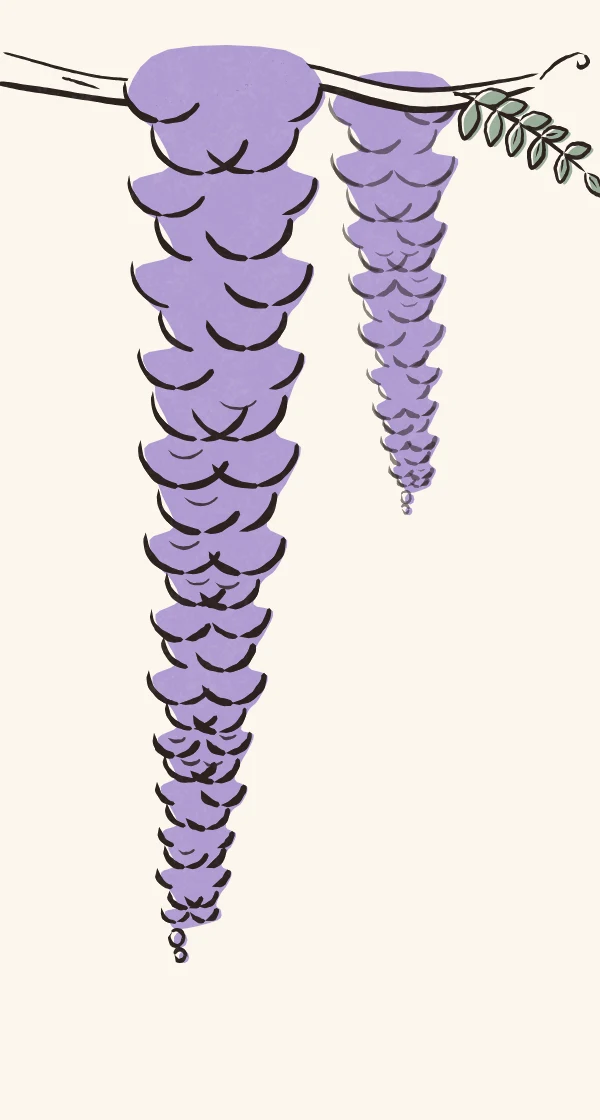
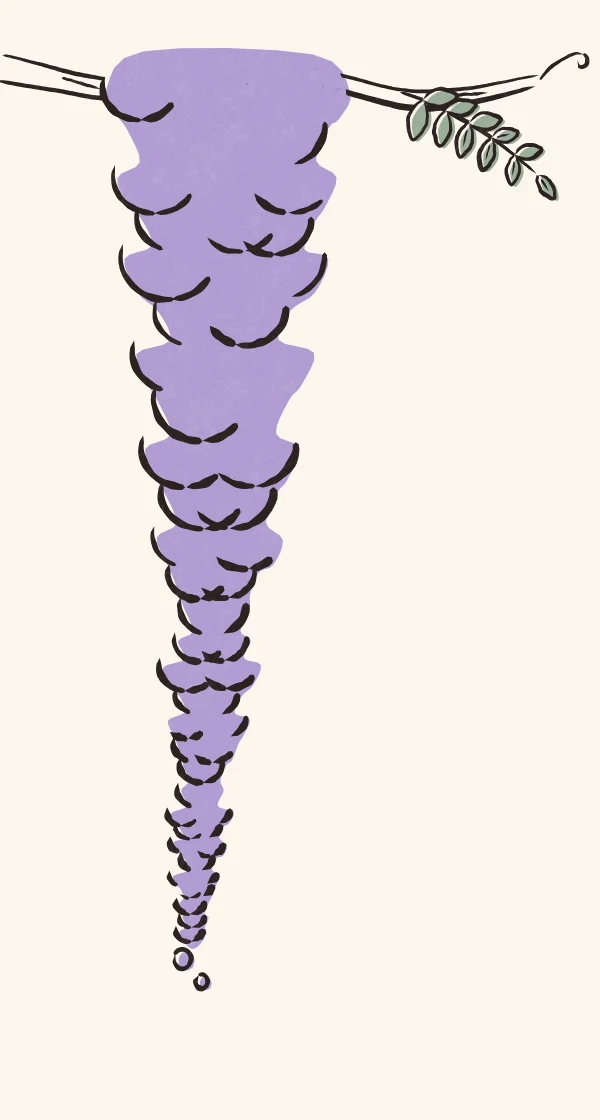
Lighten the wisteria and give the hero main's glow and fade

Changed region(s): [[0.0, 0.0312, 1.0, 0.9062], [0.39, 0.0312, 0.42, 0.0625]]

diff --git a/docs/design/illustrations/round7-build.py b/docs/design/illustrations/round7-build.py
@@ -48,6 +48,14 @@ def art(key, x, y, w, plates=None, ink=INK, op=1, flip=False, rot=0, extra='', r
   inner = ''.join(f'<i class="m-{key}-{l}" style="background:{dflt(l) if isinstance(pl, list) else pl[l]};transform:translate({reg}px,{reg * .6}px)"></i>' for l in (pl if isinstance(pl, list) else pl.keys()))
   inner += f'<i class="m-{key}-ink" style="background:{ink}"></i>' if ink else ''
   return f'<div class="art {cls}" style="left:{x}px;top:{y}px;width:{w}px;height:{hh:.1f}px;opacity:{op};{"transform:" + " ".join(tr) + ";" if tr else ""}{extra}">{inner}</div>'
+# the hero as main shows it: a watermark at about 62% with a warm gold glow behind it, fading out on
+# the left (toward the words), at the right edge and along the bottom
+def heroFx(x, y, w, ink=INK, op=None, glow=True, **kw):
+  h = w / 2; dark = ink != INK; o = op if op is not None and op < .9 else (.72 if dark else .62)
+  g = f'<div class="ab" style="left:{x + w * .08:.0f}px;top:{y - h * .12:.0f}px;width:{w * .9:.0f}px;height:{h * 1.1:.0f}px;background:radial-gradient(closest-side,rgba(232,170,36,{.12 if dark else .16}),rgba(232,170,36,0));pointer-events:none"></div>' if glow else ''
+  m = 'linear-gradient(to right,transparent 0%,#000 34%,#000 88%,transparent 100%),linear-gradient(to bottom,#000 58%,transparent 96%)'
+  return g + f'<div class="ab" style="left:{x}px;top:{y}px;width:{w}px;height:{h}px;opacity:{o};-webkit-mask-image:{m};-webkit-mask-composite:source-in;mask-image:{m};mask-composite:intersect;pointer-events:none">' + art('hero', 0, 0, w, ink=ink) + '</div>'
+
 def strip(key, x, y, w, h, plates=None, ink=INK, extra=''):
   return art(key, x, y, w, plates, ink, cls='rx', h=h, extra=extra)
 # a single quatrefoil, cut from the strip at a different place each time, so no two cells match
@@ -90,16 +98,16 @@ items = []
 def add(i, group, name, cap, ph, mc): items.append({'id': f'X{i}', 'board': 'Round 7: roses, wisteria and tile', 'group': group, 'name': name, 'cap': cap, 'devs': [ph, mc], 'kinds': ['phone', 'mac']})
 
 # ---------------------------------------------------------------- X1 Under the wisteria
-ph = (art('wis', 128, 34, 230) +
+ph = (art('wis', 136, 36, 210) +
   ab(20, 70, '<div class="k">Friday · 2:10 pm</div><div class="h1" style="font-size:31px;margin-top:8px;width:140px">You’re free until <em>4:40</em>.</div>') +
-  art('hero', -40, 178, 360, op=.95) +
+  heroFx(-40, 178, 360, op=.95) +
   strip('mosaic', 16, 356, 248, 7) +
   ab(20, 372, '<div class="k" style="color:var(--ink)">Fits that gap</div>') +
   card(16, 392, 248, 74, ev('Ceramics drop-in', '2:30–4:00', 'Art Building 110 · 4 min walk', 'FITS · 10 MIN SPARE')) +
   card(16, 474, 248, 62, ev('Rose garden sketch', '3:00–4:15', 'Mission Gardens', 'FITS'), 'opacity:.9') + tabbar())
-mc = (nav() + art('wis', 470, 56, 540) +
+mc = (nav() + art('wis', 520, 56, 470) +
   ab(60, 120, '<div class="k">Friday · 2:10 pm</div><div class="h1" style="font-size:66px;margin-top:14px;width:380px">You’re free until <em>4:40</em>.</div><div class="p" style="font-size:15px;margin-top:16px;width:330px">Two and a half hours. Here’s what fits it, nearest first.</div><div class="row" style="margin-top:22px"><span class="b" style="font-size:14px;padding:12px 20px">See all 6 that fit</span><span class="b g" style="font-size:14px;padding:12px 20px">Find a time with friends</span></div>') +
-  art('hero', -50, 372, 600, op=.95) + strip('mosaic', 600, 352, 360, 9) +
+  heroFx(-50, 372, 600, op=.95) + strip('mosaic', 600, 352, 360, 9) +
   ab(600, 376, '<div class="k" style="color:var(--ink)">Fits that gap</div>') +
   card(600, 400, 360, 92, ev('Ceramics drop-in', '2:30–4:00', 'Art Building 110 · 4 min walk', 'FITS · 10 MIN SPARE', 1.2)) +
   card(600, 502, 360, 92, ev('Rose garden sketch', '3:00–4:15', 'Mission Gardens · bring a pencil', 'FITS', 1.2)))
@@ -108,12 +116,12 @@ add(1, 'Discover', 'Under the wisteria', 'The wisteria hangs into the top of the
 # ---------------------------------------------------------------- X2 Through the arch
 def arch(x, y, w, h, inner, bw=10):
   return f'<div class="ab" style="left:{x}px;top:{y}px;width:{w}px;height:{h}px;border-radius:{w / 2}px {w / 2}px 10px 10px;box-shadow:inset 0 0 0 {bw}px var(--stub),inset 0 0 0 {bw + 1.5}px var(--rule-strong);overflow:hidden;background:var(--ticket)">{inner}</div>'
-ph = (arch(26, 56, 228, 280, art('hero', -170, 120, 520, op=.95)) + art('strand', 30, 50, 70, extra='z-index:2', cls='sway') + art('strand', 196, 54, 54, flip=True, cls='sway', extra='animation-delay:-1.4s') +
+ph = (arch(26, 56, 228, 280, heroFx(-170, 120, 520, op=.95)) + art('strand', 30, 50, 70, extra='z-index:2', cls='sway') + art('strand', 196, 54, 54, flip=True, cls='sway', extra='animation-delay:-1.4s') +
   strip('medal', 22, 334, 236, 20) +
   ab(22, 370, '<div class="k">The Mission Gardens</div><div class="h2" style="margin-top:6px">Three things here <em>today</em></div>') +
   ab(22, 430, '<div class="row" style="justify-content:space-between;border-top:1px solid var(--rule);padding:9px 0"><span class="t">Rose garden sketch</span><span class="num">3:00</span></div><div class="row" style="justify-content:space-between;border-top:1px solid var(--rule);padding:9px 0"><span class="t">Choir in the church</span><span class="num">5:30</span></div><div class="row" style="justify-content:space-between;border-top:1px solid var(--rule);padding:9px 0"><span class="t">Mass, open to all</span><span class="num">7:00</span></div>', 236) + tabbar())
 mc = (nav() + ab(60, 150, '<div class="k">Places on campus</div><div class="h1" style="font-size:62px;margin-top:14px;width:360px">Make the gap <em>count</em>.</div><div class="p" style="font-size:15px;margin-top:14px;width:330px">Pick a place you like. We’ll show what’s on there while you’re free.</div><div class="row" style="margin-top:24px;flex-wrap:wrap;width:360px"><span class="chip on" style="font-size:13px">Mission Gardens</span><span class="chip" style="font-size:13px">Observatory</span><span class="chip" style="font-size:13px">Benson</span><span class="chip" style="font-size:13px">Library</span></div>') +
-  arch(520, 84, 400, 470, art('hero', -330, 190, 920, op=.95)) + art('wis', 470, 60, 470, extra='z-index:2') +
+  arch(520, 84, 400, 470, heroFx(-330, 190, 920, op=.95)) + art('wis', 470, 60, 470, extra='z-index:2') +
   strip('medal', 512, 552, 416, 34) + art('roses', 860, 420, 200, rot=-62))
 add(2, 'Discover', 'Through the arch', 'The Mission seen through an arch, the way the arcade frames it. Wisteria strands hang over the arch and sway a little. The medallion tile is the sill. Under it, what is on at that place today.', phone(ph), mac(mc))
 
@@ -139,7 +147,7 @@ add(3, 'My week', 'Roses over the wall', 'From the drinking fountain by the rose
 # ---------------------------------------------------------------- X4 Post, without the scolding
 cream = {'petal': '#c9b6e6', 'leaf': '#b7c8a8'}
 mc = (f'<div class="ab" style="left:0;top:0;width:370px;height:625px;background:{REDD}"></div>' + nav('Post').replace('<span class="logo">', '<span class="logo" style="color:var(--paper)">') +
-  art('hero', -150, 360, 560, ink=CREAM, op=.9) + art('wis', 200, 60, 230, plates=cream, ink=CREAM) +
+  heroFx(-150, 360, 560, ink=CREAM, op=.9) + art('wis', 200, 60, 230, plates=cream, ink=CREAM) +
   ab(40, 130, f'<div class="k" style="color:{GOLD}">Post an event</div><div class="h1" style="font-size:52px;margin-top:12px;color:var(--paper);width:270px">Make something <em style="color:#f3d27c">happen</em>.</div><div class="p" style="color:#ead9cf;font-size:14px;margin-top:14px;width:280px">Students see it when it fits a gap in their day.</div>') +
   ab(420, 110, '<div class="lab">What is it</div><div class="field" style="width:300px">Ceramics drop-in</div><div class="lab" style="margin-top:22px">When</div><div class="row"><span class="chip" style="font-size:13px">Today</span><span class="chip on" style="font-size:13px">Sat, Nov 7</span><span class="chip" style="font-size:13px">Pick a day</span></div><div class="row" style="margin-top:12px;gap:12px"><div class="field" style="width:120px">2:30 pm</div><span class="p" style="font-size:18px">to</span><div class="field" style="width:120px;color:var(--faint)">4:00 pm</div></div><div class="p" style="margin-top:8px;font-size:12.5px;color:var(--sage-ink)">Add an end time and we’ll tell you who’s free for it.</div><div class="lab" style="margin-top:22px">Where</div><div class="field" style="width:300px">Arts Building 110</div>') +
   ab(760, 110, '<div class="lab">How it will look</div>') +
@@ -203,10 +211,10 @@ add(7, 'Find a time', 'Quatrefoil hours', 'Free time you share is laid out as qu
 # ---------------------------------------------------------------- X8 Evening, in cream line
 night = '#2a1f1d'
 ev_n = lambda t, w, d: f'<div style="padding:14px 0;border-top:1px solid rgba(246,231,207,.18)"><div class="row" style="justify-content:space-between"><span class="h3" style="color:var(--paper)">{t}</span><span class="num" style="color:{GOLD}">{w}</span></div><div class="p" style="color:#bfb1a6">{d}</div></div>'
-mc = (nav(c='var(--paper)') + art('hero', 330, 170, 760, ink=CREAM, op=.85) + art('roses', -60, 440, 400, ink=CREAM, plates={'petal': '#c4304a', 'leaf': '#6f8a72', 'center': GOLD}) +
+mc = (nav(c='var(--paper)') + heroFx(330, 170, 760, ink=CREAM, op=.85) + art('roses', -60, 440, 400, ink=CREAM, plates={'petal': '#c4304a', 'leaf': '#6f8a72', 'center': GOLD}) +
   ab(60, 120, f'<div class="k" style="color:{GOLD}">Friday evening</div><div class="h1" style="font-size:62px;margin-top:12px;color:var(--paper);width:400px">Open after <em style="color:#f3d27c">7:30</em>.</div>') +
   ab(60, 270, '<div style="width:330px">' + ev_n('Observatory open night', '8:00', 'Ricard · the big dome opens if it’s clear') + ev_n('Choir in the church', '7:45', 'Mission Church · free') + ev_n('Movie on the lawn', '8:30', 'Kennedy Mall · bring a blanket') + '</div>'), night)
-ph = (art('hero', -120, 290, 470, ink=CREAM, op=.85) + art('roses', -40, 420, 260, ink=CREAM, plates={'petal': '#c4304a', 'leaf': '#6f8a72', 'center': GOLD}) +
+ph = (heroFx(-120, 290, 470, ink=CREAM, op=.85) + art('roses', -40, 420, 260, ink=CREAM, plates={'petal': '#c4304a', 'leaf': '#6f8a72', 'center': GOLD}) +
   ab(20, 60, f'<div class="k" style="color:{GOLD}">Friday evening</div><div class="h2" style="color:var(--paper);font-size:32px;margin-top:8px">Open after <em style="color:#f3d27c">7:30</em>.</div>') +
   ab(20, 140, '<div style="width:240px">' + ev_n('Observatory night', '8:00', 'Ricard, if it’s clear') + ev_n('Choir', '7:45', 'Mission Church') + '</div>') + tabbar().replace('background:var(--ink)', 'background:#40312d'))
 add(8, 'Evening', 'Evening, in cream line', 'The same drawings at night. The church turns to cream line on near-black, and the roses keep their red. This is why every drawing is stored as layers: one asset works on paper, on dark red and at night.', phone(ph, night, '#f6e7cf'), mac(mc, night))
@@ -242,7 +250,8 @@ def show(key, w, plates=None, ink=INK, bg=PAPER, cls='', note=''):
   return f'<div class="artc r7" style="position:relative;background:{bg}"><div style="position:relative;width:{w}px;height:{h:.0f}px;margin:0 auto">{art(key, 0, 0, w, plates, ink, cls=cls)}</div></div>'
 def addA(i, name, cap, html): items.append({'id': f'U{i}', 'board': 'New drawings, as separate layers', 'group': 'Assets', 'name': name, 'cap': cap, 'devs': [html], 'kinds': ['art']})
 addA(1, 'The hero: church and fountain', 'Ink only, no pergola or wisteria, so it can sit under anything. Stored as one line layer that can be tinted: dark ink on paper, cream on dark red or at night.', show('hero', 530))
-addA(2, 'Wisteria, corner spray', 'Redrawn in the brush hand: rounder florets, fewer details, the line swelling and thinning. Three layers: line, flowers, leaves. Sits in any top corner.', show('wis', 530))
+addA(8, 'The hero as it sits in the app', 'The same treatment main uses today: about 62% strength, a warm gold glow behind, fading out on the left toward the headline, at the right edge and along the bottom. Every screen in round 7 uses it.', '<div class="artc r7" style="position:relative;height:300px">' + ab(24, 110, '<div class="h1" style="font-size:44px">You’re free<br>until <em style="color:var(--red)">4:40</em>.</div>') + heroFx(150, 40, 380) + '</div>')
+addA(2, 'Wisteria, corner spray', 'Kept light: six clusters with air between them, big soft florets with only about half of them marked, a few leaves. The colour layer carries the shape. Three layers: line, flowers, leaves.', show('wis', 530))
 addA(3, 'Wisteria strand and the bud', 'One strand for narrow places (it sways while loading). The bud pairs with the open rose.', '<div class="artc r7" style="position:relative;height:330px">' + art('strand', 60, 10, 160, cls='sway') + art('bud', 300, 20, 200) + '</div>')
 addA(4, 'Red climbing roses', 'From your first photo: loose red roses with gold centers on long thorny canes. Line, petals, leaves and centers are separate layers.', show('roses', 530))
 addA(5, 'One rose', 'For empty states and badges.', show('rose', 300))

diff --git a/docs/design/illustrations/README.md b/docs/design/illustrations/README.md
@@ -53,3 +53,9 @@ Every drawing now ships as its own asset, split into layers in `layers/`:
 The hero (`hero`) is the church and fountain alone, in the detailed ink kit. The wisteria (`wisteria`, `strand`), roses (`roses`, `rose1`, `bud`) and tiles (`tile-*`) use the brush kit in `scenes/brushkit.mjs`: a looser hand whose line swells and thins with pressure and lifts off partway round each shape.
 
 Export a scene's layers with `python3 export.py <scene> <scale> petal,leaf,...`. The tiles scene lists its own crops.
+
+### Hero treatment
+
+In every screen the hero uses the same treatment as main's `.sq-campus-drawing`: about 62% opacity (72% in cream on dark grounds), a radial gold glow behind it (`rgba(232,170,36,.16)`), and a mask that fades it from transparent at the left edge to full at 34%, back out past 88% on the right, and out along the bottom from 58% down. `heroFx()` in `round7-build.py` is the reference.
+
+The wisteria is drawn in the light cluster mode (`cluster(..., { simple: true })`): big florets, about half of them marked, the colour layer carrying the shape.
